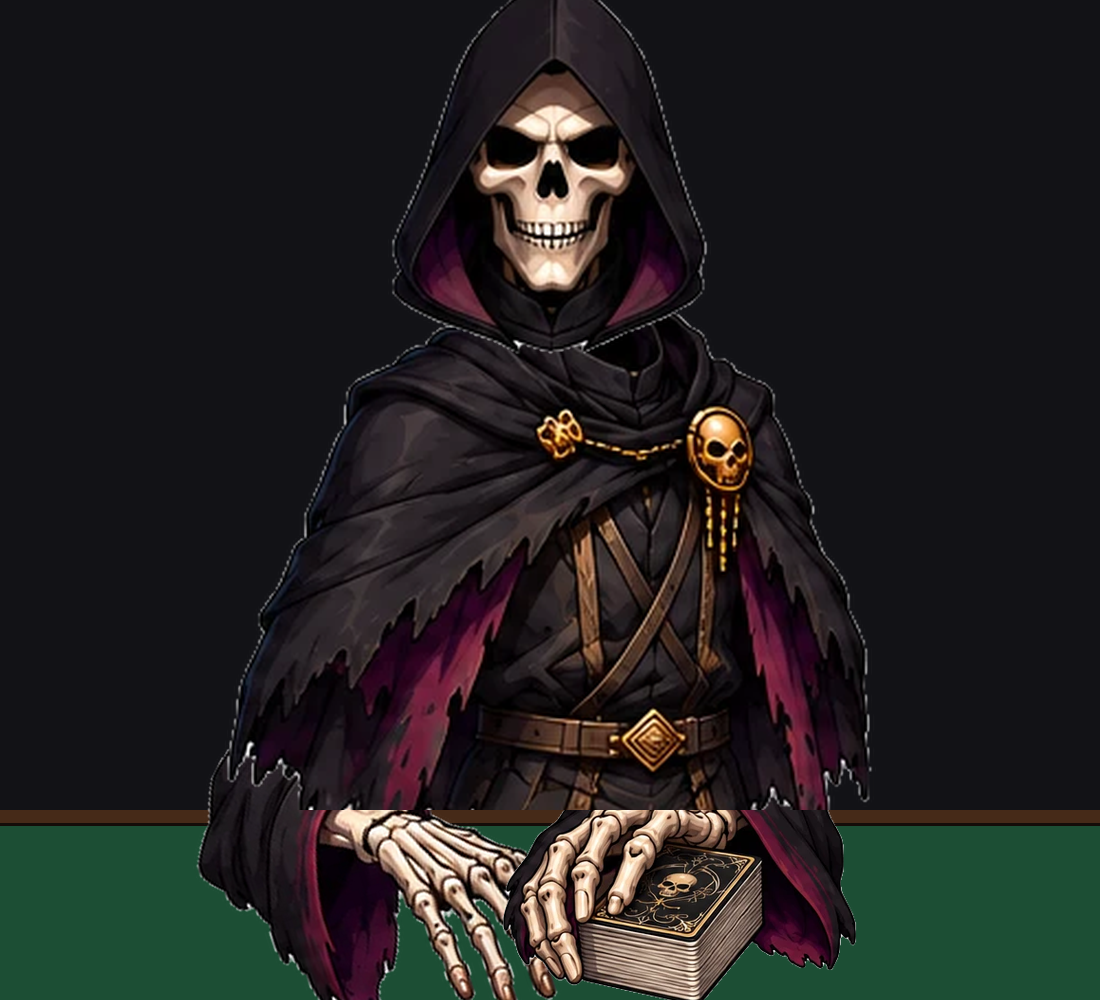
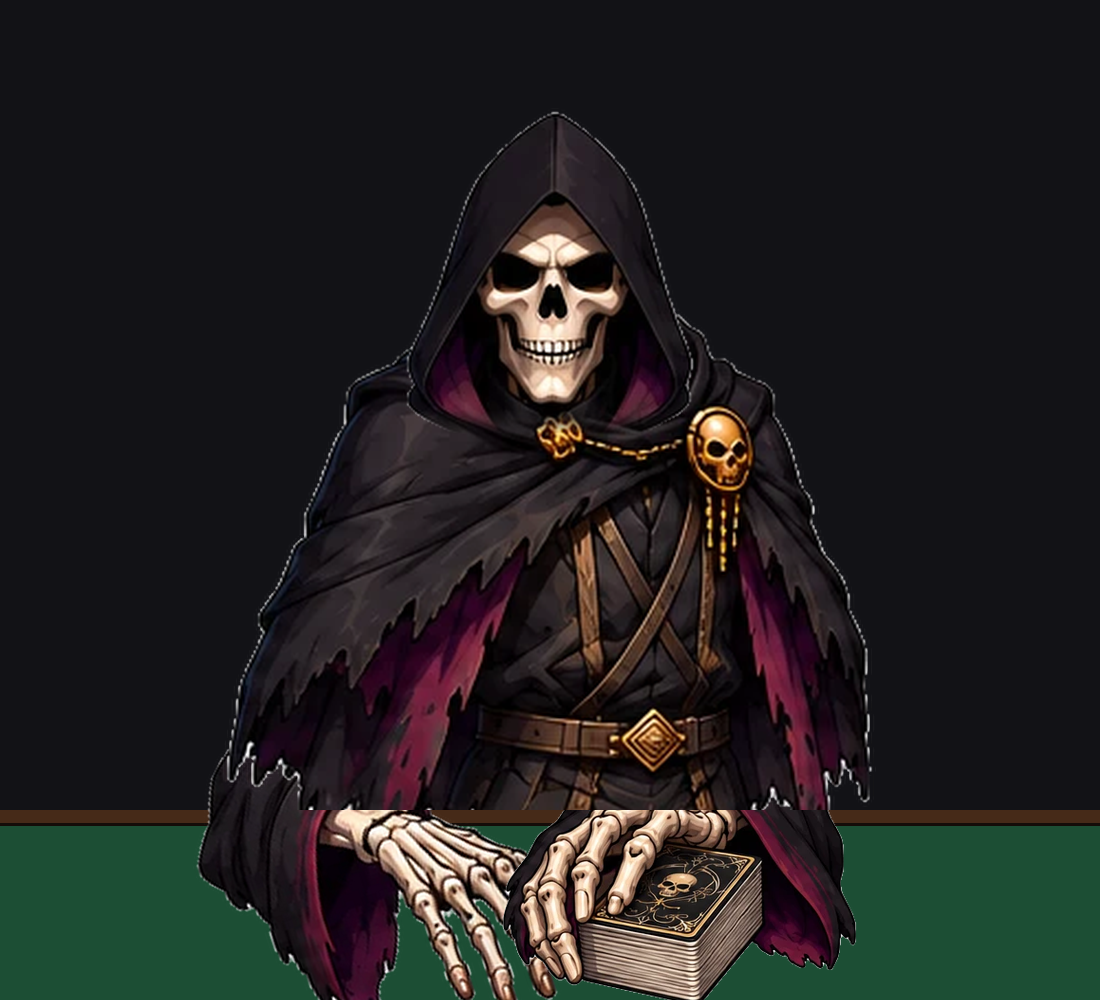
Sit Death's head down in his cloak
The hood sat on top of the torso's tall collar, so the head floated on a
stalk above the shoulders. It is now lower and a little smaller, drawn over
the cape, and the torso is listed again above it from just under the chin
(clip_top, faded in with clip_feather), so the cape's collar, clasp chain
and shoulders wrap over the bottom of the hood. build_puppet.py gains both
options; FDR and Lincoln render exactly as before.

Claude-Session: https://claude.ai/code/session_01XVyyQGg3Db8jrrcW1ZjGyp

Changed region(s): [[0.3709, 0.0, 0.6182, 0.434]]

diff --git a/art-tools/build_puppet.py b/art-tools/build_puppet.py
@@ -21,6 +21,10 @@ it is drawn at its own z, so its upper end can tuck under a cape or sleeve,
 and drawn again over everything below the layout's "table_line", so the part
 lying on the felt sits above the table. Anything not on the table is covered
 by the table below that line.
+"clip_top": y draws a part only from canvas line y down. Listing a piece twice,
+once whole and once clipped above the head, lets a cape's collar and shoulders
+wrap over the bottom of a hood without the collar covering the face.
+"clip_feather": n fades it in over n pixels below that line, so no hard edge.
 File paths are relative to the layout file, so it renders from anywhere.
 Once the numbers look right they are your rig's rest pose: import the same
 parts into Rive/Live2D and type these offsets in.
@@ -31,7 +35,7 @@ import glob
 import json
 import os
 
-from PIL import Image, ImageOps
+from PIL import Image, ImageChops, ImageOps
 
 
 def cmd_init(args):
@@ -71,6 +75,8 @@ def cmd_render(args):
         im = load(p, args.layout)
         if im is None:
             continue
+        if "clip_top" in p:
+            im = clip_above(im, int(p["clip_top"]) - int(p["y"]), int(p.get("clip_feather", 0)))
         canvas.alpha_composite(im, (int(p["x"]), int(p["y"])))
         if p.get("on_table"):
             on_table.append((p, im))
@@ -85,6 +91,18 @@ def cmd_render(args):
 
     canvas.save(args.out)
     print(f"rendered -> {args.out}")
+
+
+def clip_above(im, cut, feather):
+    """Clear a part above local row `cut`, fading it in over `feather` rows."""
+    a = im.getchannel("A")
+    ramp = Image.new("L", im.size, 255)
+    for y in range(min(max(cut + feather, 0), im.height)):
+        v = 0 if y < cut else int(255 * (y - cut + 1) / (feather + 1))
+        ramp.paste(v, (0, y, im.width, y + 1))
+    im = im.copy()
+    im.putalpha(ImageChops.multiply(a, ramp))
+    return im
 
 
 def load(p, layout_path):

diff --git a/art-tools/death_parts/README.md b/art-tools/death_parts/README.md
@@ -33,6 +33,14 @@ over the table and the forearms and hands lie on the felt. (His first layout
 put the arms on top of the cape at waist height, and the sleeves bulged out
 of his hips.)
 
+The head works the same way. On top of the cape, the hood left a tall collar
+showing, so the head sat above the shoulders on a stalk; behind the cape, the
+hollow collar covered the face. So the hood is drawn over the cape, low enough
+to swallow the collar, and the torso is listed a second time (slot
+`torso_over`) with `"clip_top"` just under the chin and a short
+`"clip_feather"`, so the cape's collar, clasp chain and shoulders wrap over
+the bottom of the hood with no hard edge.
+
 Slots: `arm_l` and `arm_r` hold every single-arm piece as a swap (the left
 side is the right mirrored); `hands_both` holds the two-handed pieces, and
 showing one means hiding both arms. The swaps are parked at the rest
